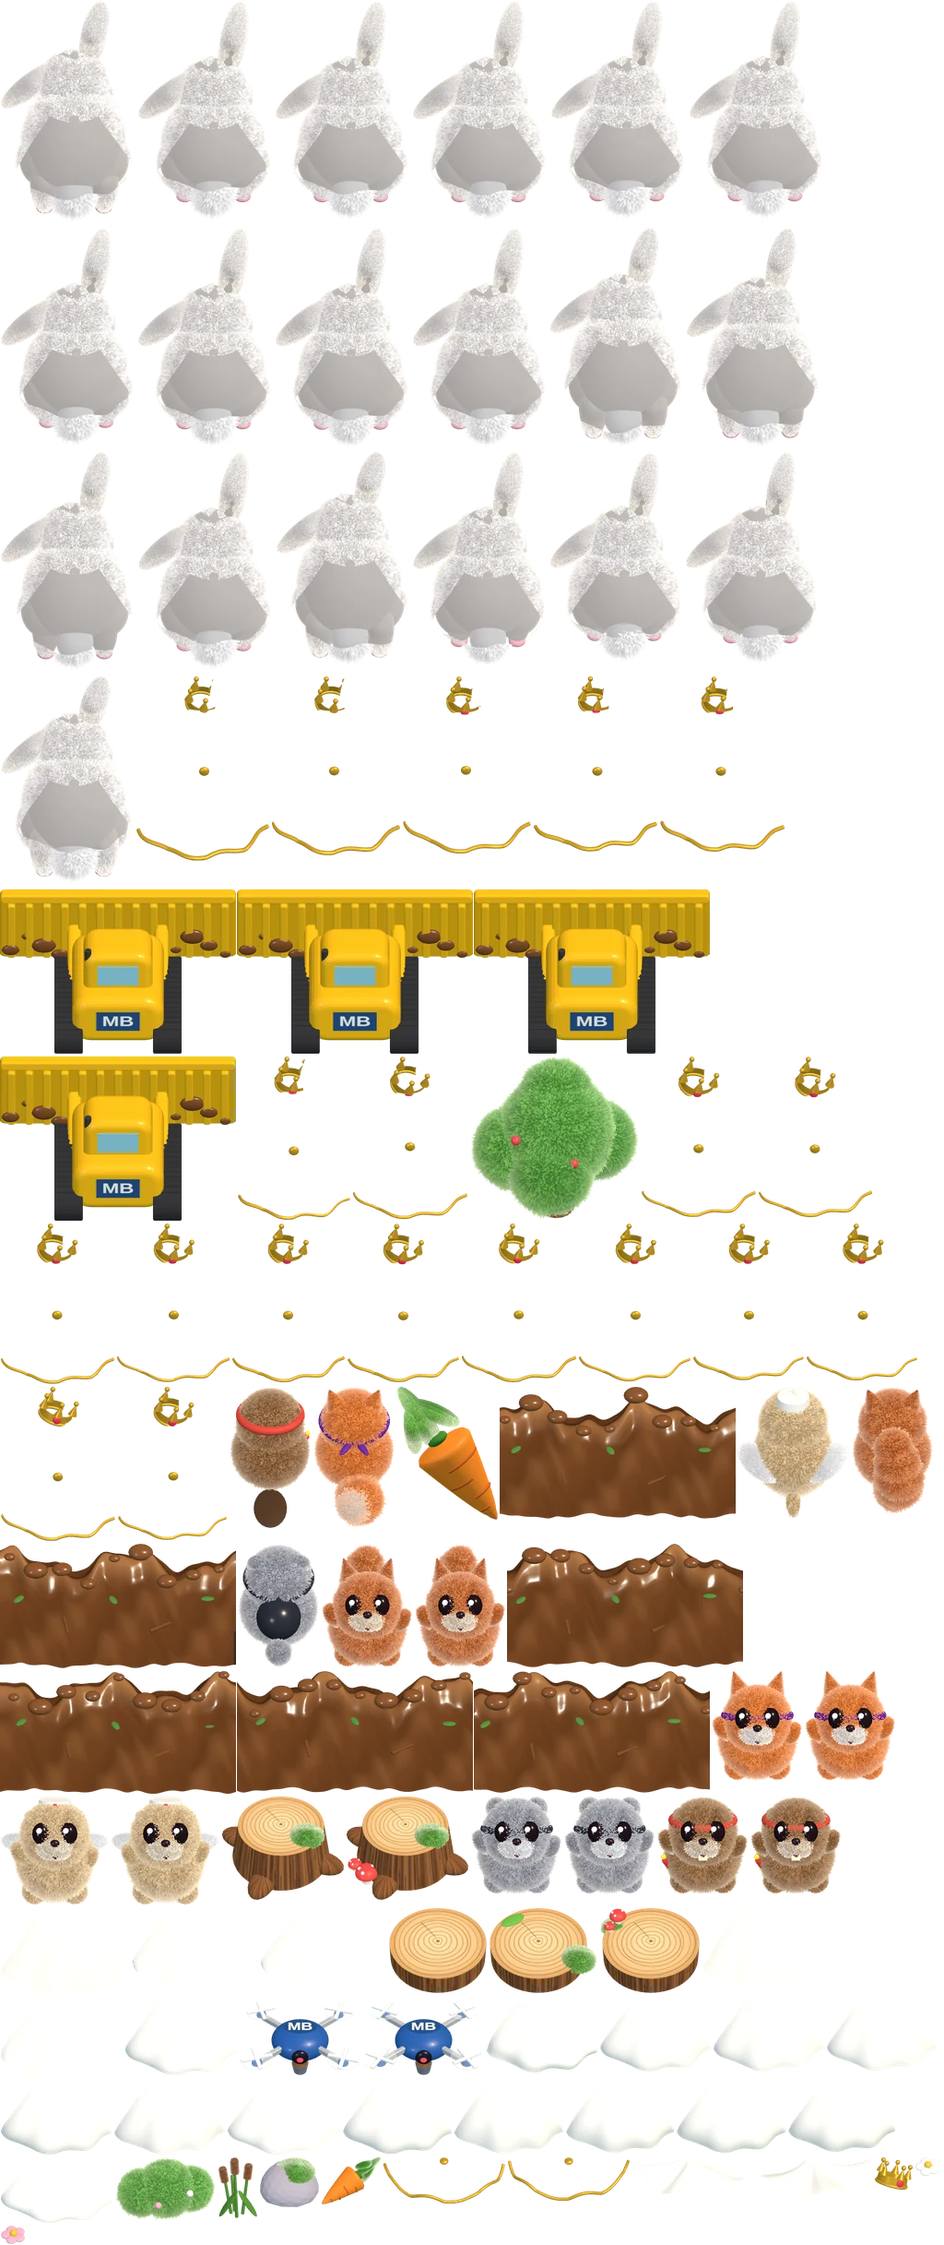
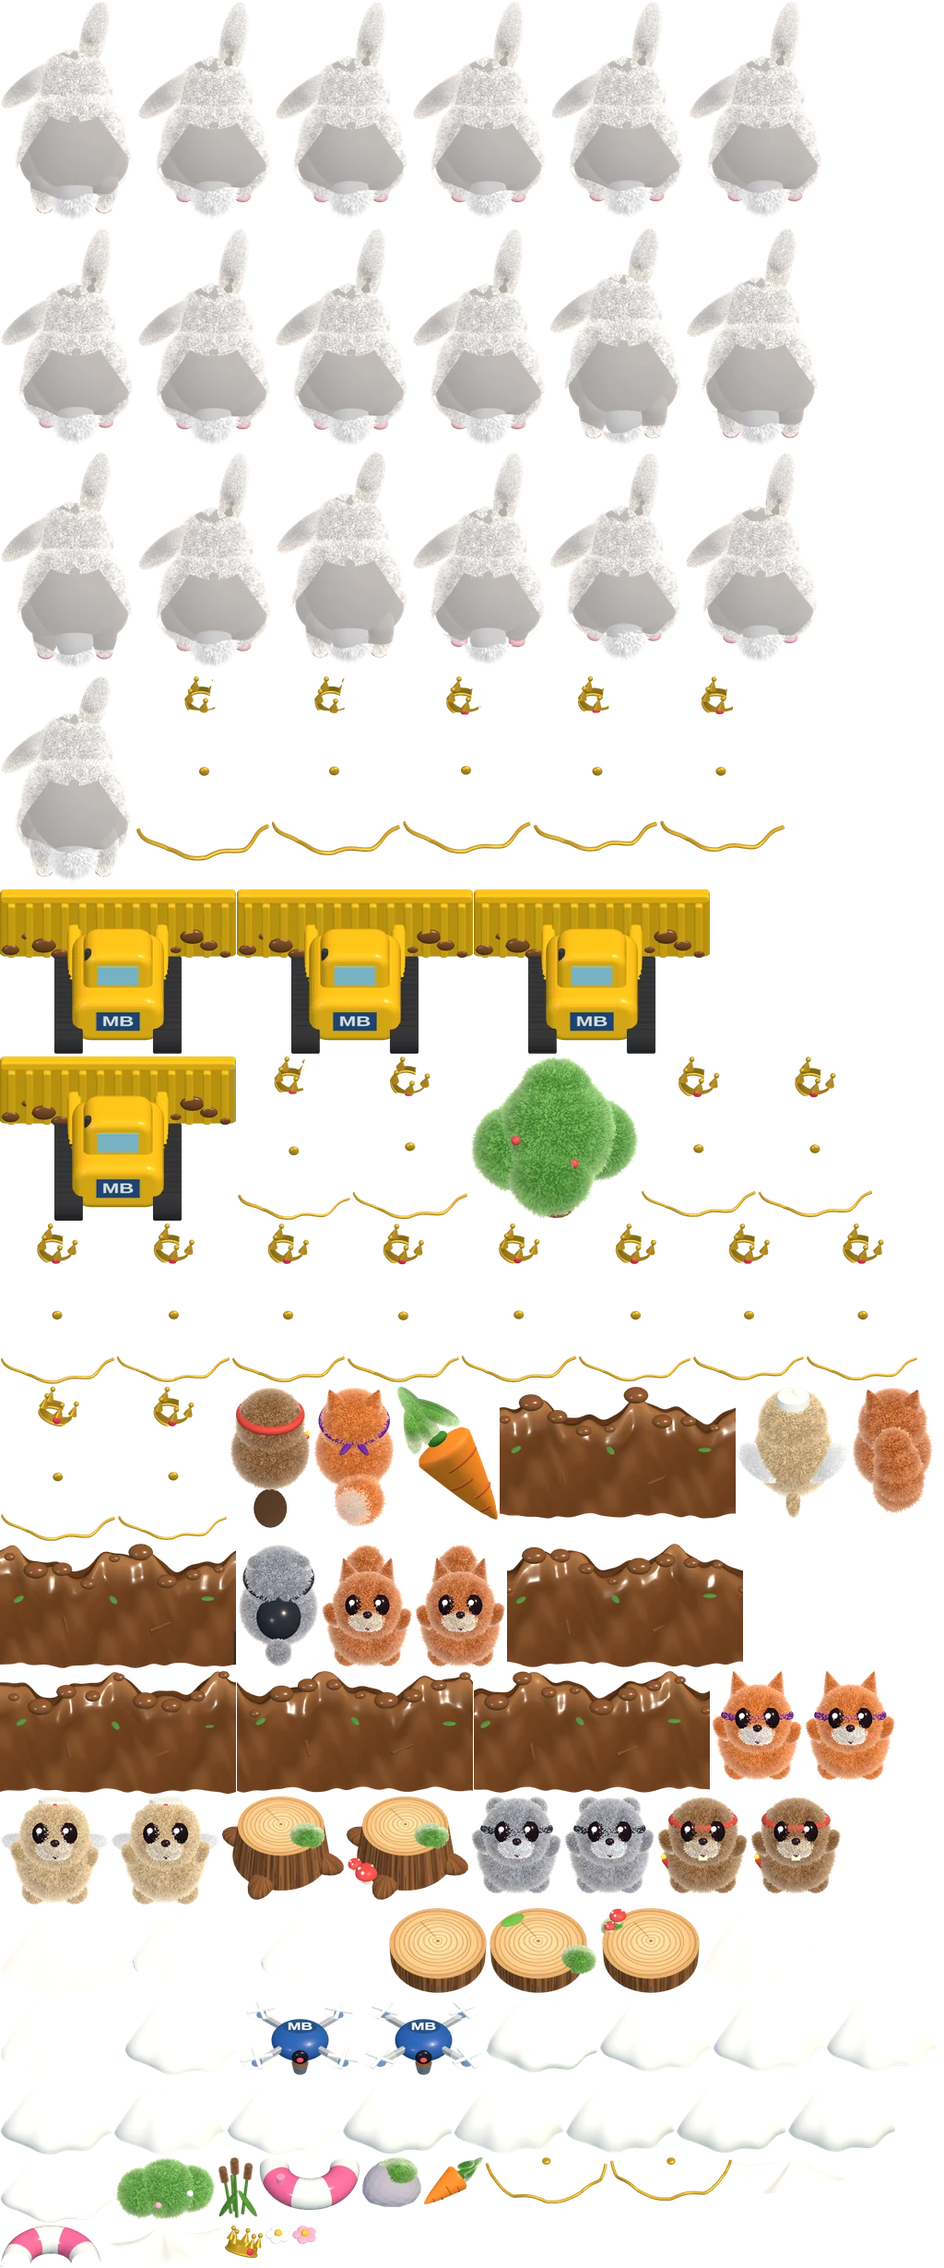
alfa 6eb3fd9: Fans of Jump: el flotador de la caída, en 3D de plástico brillante (rayas rosas

diff --git a/alfa/games/jump/js/atlas.js b/alfa/games/jump/js/atlas.js
@@ -2,4 +2,4 @@
 // Cada dibujo: [x, y, ancho, alto, ax, ay] en la lámina; (ax, ay) es su punto de apoyo. «unidad»: píxeles de la lámina por cada
 // unidad del modelo 3D (de lado, y de alto en el suelo).
 'use strict';
-const ATLAS = {"src":"img/atlas.webp","unidadX":52.5,"unidadY":39.2,"cuadros":{"quieto0_cuerpo":[149,0,148,244,83.0,179.3],"quieto0_capa":[613,2260,119,74,60.0,47.3],"quieto0_oro":[751,1325,122,172,61.5,143.3],"quieto1_cuerpo":[597,0,149,243,83.0,178.8],"quieto1_capa":[733,2260,120,74,60.5,46.8],"quieto1_oro":[874,1325,122,172,62.0,142.8],"quieto2_cuerpo":[0,246,148,242,83.0,178.8],"quieto2_capa":[371,2260,120,75,61.0,46.8],"quieto2_oro":[627,1325,123,173,62.5,142.8],"quieto3_cuerpo":[747,0,149,243,83.0,178.8],"quieto3_capa":[0,2260,122,76,61.0,46.8],"quieto3_oro":[126,1325,124,174,62.5,142.8],"quieto4_cuerpo":[298,0,148,244,83.0,179.3],"quieto4_capa":[650,2168,122,78,61.0,47.3],"quieto4_oro":[695,1144,126,176,62.5,143.3],"quieto5_cuerpo":[149,246,148,242,83.0,179.8],"quieto5_capa":[896,2168,122,77,60.5,47.3],"quieto5_oro":[822,1144,125,176,62.0,143.8],"quieto6_cuerpo":[298,246,148,242,83.0,179.8],"quieto6_capa":[123,2260,122,76,60.0,47.8],"quieto6_oro":[251,1325,124,174,61.5,143.8],"quieto7_cuerpo":[447,246,148,242,83.0,179.8],"quieto7_capa":[492,2260,120,75,59.5,47.3],"quieto7_oro":[376,1325,123,174,61.5,143.8],"agacha_cuerpo":[596,489,146,234,81.5,166.3],"agacha_capa":[854,2260,118,73,59.5,37.8],"agacha_oro":[127,1502,120,168,61.0,131.3],"salto0_cuerpo":[0,732,146,230,80.5,162.3],"salto0_capa":[527,2168,122,79,60.0,50.8],"salto0_oro":[257,1144,124,179,62.0,148.8],"salto1_cuerpo":[299,489,147,237,80.5,168.3],"salto1_capa":[143,2067,138,95,67.0,51.3],"salto1_oro":[294,732,141,196,68.5,149.3],"salto2_cuerpo":[596,246,147,242,80.0,173.8],"salto2_capa":[0,2067,142,100,72.5,51.8],"salto2_oro":[147,732,146,202,74.5,150.3],"salto3_cuerpo":[0,0,148,245,80.5,176.3],"salto3_capa":[761,2067,133,91,68.0,51.8],"salto3_oro":[578,732,136,192,70.0,150.3],"salto4_cuerpo":[744,246,147,242,81.0,176.3],"salto4_capa":[0,2168,134,91,65.0,50.8],"salto4_oro":[715,732,137,192,67.0,149.3],"salto5_cuerpo":[0,489,148,242,81.5,175.8],"salto5_capa":[282,2067,138,94,67.5,49.8],"salto5_oro":[436,732,141,194,69.5,147.8],"aterriza0_cuerpo":[743,489,148,234,82.0,168.8],"aterriza0_capa":[0,2337,123,73,61.0,39.8],"aterriza0_oro":[0,1502,126,169,63.0,133.8],"aterriza1_cuerpo":[447,489,148,237,82.5,172.8],"aterriza1_capa":[135,2168,123,82,61.0,42.8],"aterriza1_oro":[382,1144,126,178,62.5,136.8],"aterriza2_cuerpo":[149,489,149,242,83.0,177.3],"aterriza2_capa":[246,2260,124,76,61.5,45.3],"aterriza2_oro":[500,1325,126,174,63.0,141.3],"aterriza3_cuerpo":[447,0,149,244,83.0,179.3],"aterriza3_capa":[773,2168,122,78,60.5,46.8],"aterriza3_oro":[0,1325,125,176,62.0,142.8],"zorro_susto0":[771,1810,100,121,50.5,102.3],"zorro_susto1":[872,1810,100,121,50.5,102.3],"zorro_espalda":[339,1502,90,154,45.5,96.3],"mapache_susto0":[510,1946,100,108,50.5,89.3],"mapache_susto1":[611,1946,100,108,50.5,89.3],"mapache_espalda":[257,1672,90,136,45.5,96.3],"suricata_susto0":[0,1946,119,120,59.5,101.8],"suricata_susto1":[120,1946,119,120,59.5,101.8],"suricata_espalda":[799,1502,123,144,61.5,106.3],"castor_susto0":[712,1946,100,108,50.5,88.8],"castor_susto1":[813,1946,100,108,50.5,88.8],"castor_espalda":[248,1502,90,155,45.5,96.3],"ardilla_susto0":[348,1672,100,136,50.5,117.8],"ardilla_susto1":[449,1672,100,136,50.5,117.8],"ardilla_espalda":[923,1502,90,140,45.5,96.3],"tronco0":[421,2067,108,94,54.0,36.3],"tronco1":[530,2067,119,94,54.0,36.3],"tronco2":[650,2067,110,94,56.0,36.3],"tocon0":[240,1946,134,114,65.0,61.8],"tocon1":[375,1946,134,114,65.0,61.8],"arbol0":[509,1144,185,178,94.5,160.8],"arbusto0":[124,2337,111,70,56.5,51.8],"roca0":[281,2337,66,56,33.5,39.3],"juncos0":[236,2337,44,68,22.5,64.8],"flor0":[992,2337,28,22,14.5,14.3],"flor1":[0,2411,28,22,14.5,14.3],"dron0":[259,2168,133,82,66.5,86.3],"dron1":[393,2168,133,82,66.5,86.3],"corona_suelta":[948,2337,43,37,20.0,32.8],"capaflota0":[685,2337,130,48,65.0,14.8],"capaflota1":[816,2337,131,45,65.5,14.8],"capaflota0oro":[415,2337,134,52,66.5,17.3],"capaflota1oro":[550,2337,134,49,67.0,17.3],"zanahoria":[348,2337,66,53,43.0,32.8],"zanahoria_icono":[430,1502,111,146,40.5,149.3],"ola0":[257,1810,256,134,128.0,121.3],"ola1":[0,1810,256,135,128.0,122.3],"ola2":[0,1672,256,137,128.0,123.8],"ola3":[542,1502,256,145,128.0,132.3],"ola4":[550,1672,256,136,128.0,122.8],"ola5":[514,1810,256,134,128.0,121.3],"topadora0":[0,963,256,180,128.0,137.3],"topadora1":[257,963,256,180,128.0,137.3],"topadora2":[514,963,256,180,128.0,137.3],"topadora3":[0,1144,256,180,128.0,137.3]}};
+const ATLAS = {"src":"img/atlas.webp","unidadX":52.5,"unidadY":39.2,"cuadros":{"quieto0_cuerpo":[149,0,148,244,83.0,179.3],"quieto0_capa":[613,2260,119,74,60.0,47.3],"quieto0_oro":[751,1325,122,172,61.5,143.3],"quieto1_cuerpo":[597,0,149,243,83.0,178.8],"quieto1_capa":[733,2260,120,74,60.5,46.8],"quieto1_oro":[874,1325,122,172,62.0,142.8],"quieto2_cuerpo":[0,246,148,242,83.0,178.8],"quieto2_capa":[371,2260,120,75,61.0,46.8],"quieto2_oro":[627,1325,123,173,62.5,142.8],"quieto3_cuerpo":[747,0,149,243,83.0,178.8],"quieto3_capa":[0,2260,122,76,61.0,46.8],"quieto3_oro":[126,1325,124,174,62.5,142.8],"quieto4_cuerpo":[298,0,148,244,83.0,179.3],"quieto4_capa":[650,2168,122,78,61.0,47.3],"quieto4_oro":[695,1144,126,176,62.5,143.3],"quieto5_cuerpo":[149,246,148,242,83.0,179.8],"quieto5_capa":[896,2168,122,77,60.5,47.3],"quieto5_oro":[822,1144,125,176,62.0,143.8],"quieto6_cuerpo":[298,246,148,242,83.0,179.8],"quieto6_capa":[123,2260,122,76,60.0,47.8],"quieto6_oro":[251,1325,124,174,61.5,143.8],"quieto7_cuerpo":[447,246,148,242,83.0,179.8],"quieto7_capa":[492,2260,120,75,59.5,47.3],"quieto7_oro":[376,1325,123,174,61.5,143.8],"agacha_cuerpo":[596,489,146,234,81.5,166.3],"agacha_capa":[854,2260,118,73,59.5,37.8],"agacha_oro":[127,1502,120,168,61.0,131.3],"salto0_cuerpo":[0,732,146,230,80.5,162.3],"salto0_capa":[527,2168,122,79,60.0,50.8],"salto0_oro":[257,1144,124,179,62.0,148.8],"salto1_cuerpo":[299,489,147,237,80.5,168.3],"salto1_capa":[143,2067,138,95,67.0,51.3],"salto1_oro":[294,732,141,196,68.5,149.3],"salto2_cuerpo":[596,246,147,242,80.0,173.8],"salto2_capa":[0,2067,142,100,72.5,51.8],"salto2_oro":[147,732,146,202,74.5,150.3],"salto3_cuerpo":[0,0,148,245,80.5,176.3],"salto3_capa":[761,2067,133,91,68.0,51.8],"salto3_oro":[578,732,136,192,70.0,150.3],"salto4_cuerpo":[744,246,147,242,81.0,176.3],"salto4_capa":[0,2168,134,91,65.0,50.8],"salto4_oro":[715,732,137,192,67.0,149.3],"salto5_cuerpo":[0,489,148,242,81.5,175.8],"salto5_capa":[282,2067,138,94,67.5,49.8],"salto5_oro":[436,732,141,194,69.5,147.8],"aterriza0_cuerpo":[743,489,148,234,82.0,168.8],"aterriza0_capa":[0,2337,123,73,61.0,39.8],"aterriza0_oro":[0,1502,126,169,63.0,133.8],"aterriza1_cuerpo":[447,489,148,237,82.5,172.8],"aterriza1_capa":[135,2168,123,82,61.0,42.8],"aterriza1_oro":[382,1144,126,178,62.5,136.8],"aterriza2_cuerpo":[149,489,149,242,83.0,177.3],"aterriza2_capa":[246,2260,124,76,61.5,45.3],"aterriza2_oro":[500,1325,126,174,63.0,141.3],"aterriza3_cuerpo":[447,0,149,244,83.0,179.3],"aterriza3_capa":[773,2168,122,78,60.5,46.8],"aterriza3_oro":[0,1325,125,176,62.0,142.8],"zorro_susto0":[771,1810,100,121,50.5,102.3],"zorro_susto1":[872,1810,100,121,50.5,102.3],"zorro_espalda":[339,1502,90,154,45.5,96.3],"mapache_susto0":[510,1946,100,108,50.5,89.3],"mapache_susto1":[611,1946,100,108,50.5,89.3],"mapache_espalda":[257,1672,90,136,45.5,96.3],"suricata_susto0":[0,1946,119,120,59.5,101.8],"suricata_susto1":[120,1946,119,120,59.5,101.8],"suricata_espalda":[799,1502,123,144,61.5,106.3],"castor_susto0":[712,1946,100,108,50.5,88.8],"castor_susto1":[813,1946,100,108,50.5,88.8],"castor_espalda":[248,1502,90,155,45.5,96.3],"ardilla_susto0":[348,1672,100,136,50.5,117.8],"ardilla_susto1":[449,1672,100,136,50.5,117.8],"ardilla_espalda":[923,1502,90,140,45.5,96.3],"tronco0":[421,2067,108,94,54.0,36.3],"tronco1":[530,2067,119,94,54.0,36.3],"tronco2":[650,2067,110,94,56.0,36.3],"tocon0":[240,1946,134,114,65.0,61.8],"tocon1":[375,1946,134,114,65.0,61.8],"arbol0":[509,1144,185,178,94.5,160.8],"arbusto0":[124,2337,111,70,56.5,51.8],"roca0":[392,2337,66,56,33.5,39.3],"juncos0":[236,2337,44,68,22.5,64.8],"flor0":[287,2411,28,22,14.5,14.3],"flor1":[316,2411,28,22,14.5,14.3],"dron0":[259,2168,133,82,66.5,86.3],"dron1":[393,2168,133,82,66.5,86.3],"flotador_atras":[0,2411,110,47,55.5,46.3],"flotador_delante":[281,2337,110,59,55.0,16.8],"corona_suelta":[243,2411,43,37,20.0,32.8],"capaflota0":[796,2337,130,48,65.0,14.8],"capaflota1":[111,2411,131,45,65.5,14.8],"capaflota0oro":[526,2337,134,52,66.5,17.3],"capaflota1oro":[661,2337,134,49,67.0,17.3],"zanahoria":[459,2337,66,53,43.0,32.8],"zanahoria_icono":[430,1502,111,146,40.5,149.3],"ola0":[257,1810,256,134,128.0,121.3],"ola1":[0,1810,256,135,128.0,122.3],"ola2":[0,1672,256,137,128.0,123.8],"ola3":[542,1502,256,145,128.0,132.3],"ola4":[550,1672,256,136,128.0,122.8],"ola5":[514,1810,256,134,128.0,121.3],"topadora0":[0,963,256,180,128.0,137.3],"topadora1":[257,963,256,180,128.0,137.3],"topadora2":[514,963,256,180,128.0,137.3],"topadora3":[0,1144,256,180,128.0,137.3]}};

diff --git a/alfa/index.html b/alfa/index.html
@@ -10,10 +10,10 @@
 <link rel="preconnect" href="https://fonts.googleapis.com">
 <link rel="preconnect" href="https://fonts.gstatic.com" crossorigin>
 <link rel="stylesheet" href="https://fonts.googleapis.com/css2?family=Baloo+2:wght@600;700;800&family=Luckiest+Guy&display=swap">
-<link rel="stylesheet" href="core/css/base.css?v=28335ca">
-<link rel="stylesheet" href="biblioteca/tienda.css?v=28335ca">
-<link rel="stylesheet" href="novedades/ventana.css?v=28335ca">
-<link rel="stylesheet" href="biblioteca/votos.css?v=28335ca">
+<link rel="stylesheet" href="core/css/base.css?v=6eb3fd9">
+<link rel="stylesheet" href="biblioteca/tienda.css?v=6eb3fd9">
+<link rel="stylesheet" href="novedades/ventana.css?v=6eb3fd9">
+<link rel="stylesheet" href="biblioteca/votos.css?v=6eb3fd9">
 <style>
   /* la entrada de la web: una tarjeta por juego, con los colores y las letras de core */
   body { overflow: auto; touch-action: auto; align-items: flex-start; }
@@ -230,8 +230,8 @@
   </section>
   <p class="note">© 2026 Arkioner y Pepins · MicroBlizz · Todos los derechos reservados</p>
 </main>
-<script src="core/js/nucleo.js?v=0-a334.28335ca"></script>
-<script src="core/js/novedades.js?v=28335ca"></script>
+<script src="core/js/nucleo.js?v=0-a335.6eb3fd9"></script>
+<script src="core/js/novedades.js?v=6eb3fd9"></script>
 <script>
 // La cuenta de la web es la misma de los juegos (core/js/sistema/cuenta.js, mismo navegador = misma sesión). Aquí no hay partida que subir.
 const AJUSTES = { id: 'web', guardado: 'fansof-web' }, SAVE_KEY = AJUSTES.guardado, SAVE = {};
@@ -240,7 +240,7 @@ const HOOKS = {};
 function hook(name, fn) { (HOOKS[name] = HOOKS[name] || []).push(fn); }
 function fire(name, ...a) { let out = ''; for (const fn of HOOKS[name] || []) { const r = fn(...a); if (typeof r === 'string') out += r; } return out; }
 </script>
-<script src="core/js/sistema/cuenta.js?v=28335ca"></script>
+<script src="core/js/sistema/cuenta.js?v=6eb3fd9"></script>
 <script>NUCLEO.idiomaSolo({ en: ['core/idioma/en-raiz.js', 'novedades/en.js', 'biblioteca/en.js','games/rumble/idioma/en-7.js', 'games/td/idioma/en-2.js', 'games/survivors/idioma/en.js', 'games/crush/idioma/en-raiz.js', 'games/jump/idioma/en-raiz.js', 'games/dark/idioma/en-raiz.js', 'games/nova/idioma/en-raiz.js', 'games/island/idioma/en-raiz.js', 'demos/rumble-3d/idioma/en-raiz.js', 'demos/roguelite/idioma/en-raiz.js', 'demos/tactics-advance/idioma/en-raiz.js', 'games/rouflage/idioma/en-raiz.js', 'demos/dungeons/idioma/en-raiz.js', 'games/karts/idioma/en-raiz.js', 'demos/recruit/idioma/en-raiz.js', 'demos/terminal-shock/idioma/en-raiz.js', 'games/ratkov/idioma/en-raiz.js'] })</script>
 <script>
 // La versión y las novedades salen de los archivos de cada juego, así que esta página nunca se queda atrás.
@@ -266,11 +266,11 @@ const fail = id => () => {
 };
 
 </script>
-<script src="novedades/ventana.js?v=28335ca"></script>
-<script src="biblioteca/tienda.js?v=28335ca"></script>
-<script src="biblioteca/cuenta-web.js?v=28335ca"></script>
-<script src="biblioteca/votos.js?v=28335ca"></script>
-<script src="biblioteca/alfa.js?v=28335ca"></script>
-<script src="core/js/sistema/analitica.js?v=28335ca"></script>
+<script src="novedades/ventana.js?v=6eb3fd9"></script>
+<script src="biblioteca/tienda.js?v=6eb3fd9"></script>
+<script src="biblioteca/cuenta-web.js?v=6eb3fd9"></script>
+<script src="biblioteca/votos.js?v=6eb3fd9"></script>
+<script src="biblioteca/alfa.js?v=6eb3fd9"></script>
+<script src="core/js/sistema/analitica.js?v=6eb3fd9"></script>
 </body>
 </html>

diff --git a/alfa/games/jump/js/muerte.js b/alfa/games/jump/js/muerte.js
@@ -77,15 +77,11 @@ function hundeConejo() {
   if (!M.activa) return { baja: JUEGO.conejo.hunde, giro: 0 };
   return { baja: hundido(M.t) + Math.sin(M.t * 3) * 0.02, giro: Math.sin(M.t * (M.t < 0.6 ? 17 : 2.4)) * (M.t < 0.6 ? 0.13 : 0.09) };
 }
-// el flotador rosa con rayas blancas (r: el radio; delante: la mitad de delante, que tapa al que va dentro)
+// el flotador de plástico (dibujo 3D, en dos mitades: la de atrás va detrás del que flota y la de delante lo tapa);
+// r: el radio por fuera, en medidas del mundo
 function flotador(x, y, r, delante, k = 1) {
-  const rx = r * k, ry = r * 0.42 * k, g = r * 0.34 * k;
-  G.save(); G.beginPath(); G.rect(x - rx - 2, delante ? y : y - ry - 4, rx * 2 + 4, ry + 6); G.clip();
-  elipse(x, y, rx, ry, vol(x, y, rx, ry, '#ff8fb8'), OLC, 0.9);
-  for (const a of [0.5, 1.6, 2.7, 3.8, 4.9, 6.0]) { const c = Math.cos(a), s = Math.sin(a); elipse(x + c * (rx - g / 2), y + s * (ry - g * 0.4), g * 0.42, g * 0.36, '#ffffff', null); }
-  elipse(x, y - 0.4, rx - g, Math.max(0.5, ry - g * 0.75), MUERTE.barro ? COL_RIO.barro : COL_RIO.agua, OLC, 0.7);
-  elipse(x - rx * 0.4, y - ry * 0.55, rx * 0.22, ry * 0.18, 'rgba(255,255,255,0.6)', null);
-  G.restore();
+  if (!delante) elipse(x + 1, y + 2, r * 1.05 * k, r * 0.4 * k, 'rgba(30,70,80,0.22)', null);   // su sombra en el agua
+  sprite(delante ? 'flotador_delante' : 'flotador_atras', x, y, r / 1.02 * k);
 }
 // la parte de atrás del flotador (antes del conejo) y la de delante (después)
 function flotadorConejo(delante) {

diff --git a/alfa/games/karts/index.html b/alfa/games/karts/index.html
@@ -8,7 +8,7 @@
 <meta name="description" content="Fans of Karts (juego): carreras de karts en pixel art de consola portátil con los líderes de Fans of Rumble. Tres pistas, seis pilotos, objetos con mala idea y Microblizz, que ha comprado la carrera.">
 <link rel="icon" type="image/png" href="img/icon-192.png">
 <link rel="apple-touch-icon" href="img/icon-192.png">
-<script src="../../core/js/nucleo.js?v=0.7.1-a334.28335ca"></script>
+<script src="../../core/js/nucleo.js?v=0.7.1-a335.6eb3fd9"></script>
 <script>NUCLEO.estilos('../../core/css/base.css', '../../core/css/menus.css', '../../core/css/menus-tienda.css', '../../core/css/menus-extra.css', 'css/tienda.css', 'css/pvp.css')</script>
 <link rel="stylesheet" href="https://fonts.googleapis.com/css2?family=Baloo+2:wght@600;700;800&family=Luckiest+Guy&display=swap">
 <style>

diff --git a/alfa/games/dark/index.html b/alfa/games/dark/index.html
@@ -12,7 +12,7 @@
 <link rel="stylesheet" href="https://fonts.googleapis.com/css2?family=Baloo+2:wght@600;700;800&family=Luckiest+Guy&family=Press+Start+2P&family=Pixelify+Sans:wght@400;600;700&display=swap">
 <link rel="stylesheet" href="css/dark.css?v=0.2.4">
 <!-- Prototipo: no usa NUCLEO (tiene su propia partida guardada). Carga de core el arte, la música, los efectos y las cifras del Rumble.
-     VERSIÓN para desplegar.py (que la busca así): nucleo.js?v=0.2.7-a334.28335ca' (aquí solo se anota; súbela junto al ?v= de los scripts). -->
+     VERSIÓN para desplegar.py (que la busca así): nucleo.js?v=0.2.7-a335.6eb3fd9' (aquí solo se anota; súbela junto al ?v= de los scripts). -->
 </head>
 <body>
 <canvas id="cv" aria-label="Mazmorra"></canvas>

diff --git a/alfa/games/rumble/index.html b/alfa/games/rumble/index.html
@@ -16,7 +16,7 @@
 <link rel="preconnect" href="https://fonts.gstatic.com" crossorigin>
 <link rel="stylesheet" href="https://fonts.googleapis.com/css2?family=Baloo+2:wght@600;700;800&family=Luckiest+Guy&display=swap">
 <!-- core/js/nucleo.js carga lo común y el juego. LA VERSIÓN SE ESCRIBE SOLO AQUÍ, en su ?v= -->
-<script src="../../core/js/nucleo.js?v=0.9.145-a334.28335ca"></script>
+<script src="../../core/js/nucleo.js?v=0.9.145-a335.6eb3fd9"></script>
 <script>NUCLEO.estilos('../../core/css/menus.css', 'css/estilos-partida.css', 'css/estilos-extra.css', 'css/arena.css', '../../core/css/biblioteca.css', 'css/facciones-y-jefes.css', '../../core/css/clasificacion.css', 'css/frases.css', 'css/mitica.css', 'css/paletas.css')</script>
 
 </head>

diff --git a/alfa/games/jump/index.html b/alfa/games/jump/index.html
@@ -12,7 +12,7 @@
 <link rel="preconnect" href="https://fonts.gstatic.com" crossorigin>
 <link rel="stylesheet" href="https://fonts.googleapis.com/css2?family=Baloo+2:wght@600;700;800&family=Luckiest+Guy&display=swap">
 <!-- ?v= es la versión del juego (la misma en la web y en la app): súbela al publicar y pon su entrada en js/novedades.js -->
-<script src="../../core/js/nucleo.js?v=0.3.3-a334.28335ca"></script>
+<script src="../../core/js/nucleo.js?v=0.3.3-a335.6eb3fd9"></script>
 <script>NUCLEO.estilos('../../core/css/base.css', '../../core/css/menus.css')</script>
 <style>
 /* Fans of Jump: un solo canvas a la resolución real de la pantalla, con los dibujos 3D. El mundo mide unos 200 de ancho y se

diff --git a/alfa/games/rouflage/index.html b/alfa/games/rouflage/index.html
@@ -10,7 +10,7 @@
 <link rel="preconnect" href="https://fonts.googleapis.com">
 <link rel="preconnect" href="https://fonts.gstatic.com" crossorigin>
 <link rel="stylesheet" href="https://fonts.googleapis.com/css2?family=Baloo+2:wght@600;700;800&family=Luckiest+Guy&display=swap">
-<script src="../../core/js/nucleo.js?v=0.2.38-a334.28335ca"></script>
+<script src="../../core/js/nucleo.js?v=0.2.38-a335.6eb3fd9"></script>
 <script>NUCLEO.estilos('../../core/css/base.css', '../../core/css/menus.css', '../../core/css/menus-extra.css')</script>
 <script>NUCLEO.estilos('estilo.css', 'estilo-pvp.css', 'estilo-armario.css', 'estilo-menus.css', 'estilo-misiones.css', 'estilo-escenario.css')</script>
 </head>

diff --git a/alfa/games/decks/index.html b/alfa/games/decks/index.html
@@ -15,7 +15,7 @@
 <link rel="preconnect" href="https://fonts.gstatic.com" crossorigin>
 <link rel="stylesheet" href="https://fonts.googleapis.com/css2?family=Baloo+2:wght@600;700;800&family=Luckiest+Guy&display=swap">
 <!-- core/js/nucleo.js carga lo común y el juego. LA VERSIÓN SE ESCRIBE SOLO AQUÍ, en su ?v= -->
-<script src="../../core/js/nucleo.js?v=0.2.8-a334.28335ca"></script>
+<script src="../../core/js/nucleo.js?v=0.2.8-a335.6eb3fd9"></script>
 <script>NUCLEO.estilos('../../core/css/base.css', '../../core/css/menus.css', 'css/decks.css', 'css/decks-reunion.css', 'css/decks-anim.css', 'css/decks-campana.css', 'css/decks-lideres.css')</script>
 </head>
 <body>

diff --git a/alfa/games/ratkov/index.html b/alfa/games/ratkov/index.html
@@ -13,7 +13,7 @@
 <link rel="preconnect" href="https://fonts.gstatic.com" crossorigin>
 <link rel="stylesheet" href="https://fonts.googleapis.com/css2?family=VT323&family=Russo+One&display=swap">
 <script src="https://cdnjs.cloudflare.com/ajax/libs/three.js/r128/three.min.js"></script>
-<script src="../../core/js/nucleo.js?v=0.2.16-a334.28335ca"></script>
+<script src="../../core/js/nucleo.js?v=0.2.16-a335.6eb3fd9"></script>
 <script>NUCLEO.estilos('../../core/css/base.css', '../../core/css/menus.css')</script>
 <link rel="stylesheet" href="estilo.css?v=0.2.3">
 <link rel="stylesheet" href="estilo-refugio.css?v=0.2.3">

diff --git a/alfa/games/survivors/index.html b/alfa/games/survivors/index.html
@@ -15,7 +15,7 @@
 <link rel="preconnect" href="https://fonts.gstatic.com" crossorigin>
 <link rel="stylesheet" href="https://fonts.googleapis.com/css2?family=Baloo+2:wght@600;700;800&family=Luckiest+Guy&display=swap">
 <!-- core/js/nucleo.js carga lo común y el juego. LA VERSIÓN SE ESCRIBE SOLO AQUÍ, en su ?v= -->
-<script src="../../core/js/nucleo.js?v=0.1.58-a334.28335ca"></script>
+<script src="../../core/js/nucleo.js?v=0.1.58-a335.6eb3fd9"></script>
 <script>NUCLEO.estilos('../../core/css/base.css', '../../core/css/menus.css', 'css/survivors.css', '../../core/css/biblioteca.css')</script>
 </head>
 <body>

diff --git a/alfa/games/td/index.html b/alfa/games/td/index.html
@@ -15,7 +15,7 @@
 <link rel="preconnect" href="https://fonts.gstatic.com" crossorigin>
 <link rel="stylesheet" href="https://fonts.googleapis.com/css2?family=Baloo+2:wght@600;700;800&family=Luckiest+Guy&display=swap">
 <!-- core/js/nucleo.js carga lo común y el juego. LA VERSIÓN SE ESCRIBE SOLO AQUÍ, en su ?v= -->
-<script src="../../core/js/nucleo.js?v=0.13.74-a334.28335ca"></script>
+<script src="../../core/js/nucleo.js?v=0.13.74-a335.6eb3fd9"></script>
 <script>NUCLEO.estilos('../../core/css/base.css', 'css/td.css', '../../core/css/menus.css', '../../core/css/biblioteca.css')</script>
 </head>
 <body>
